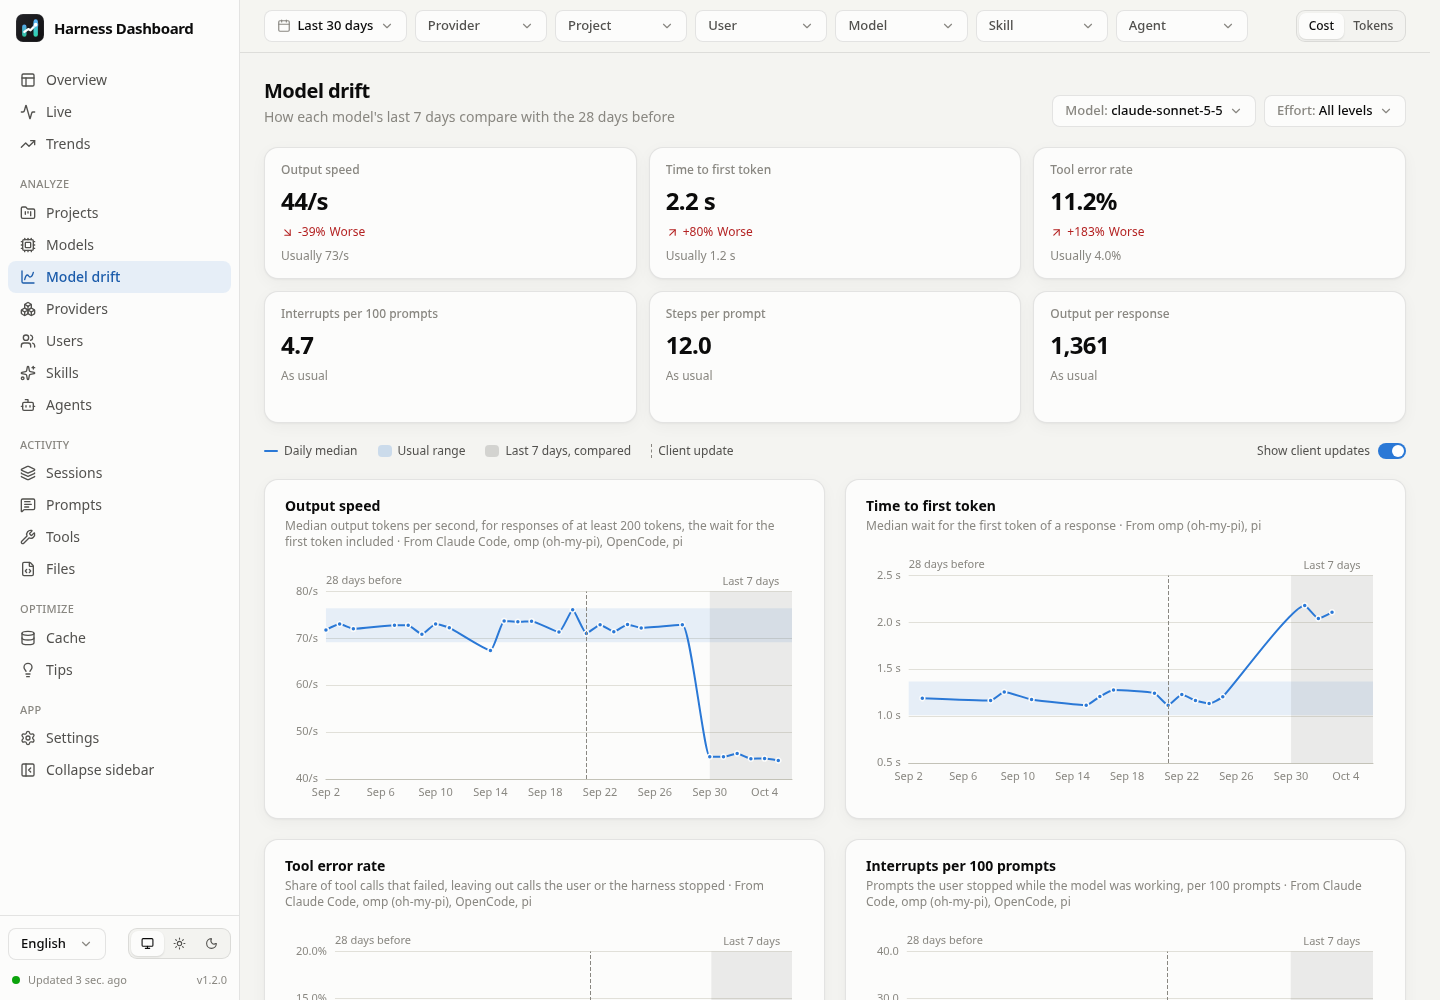
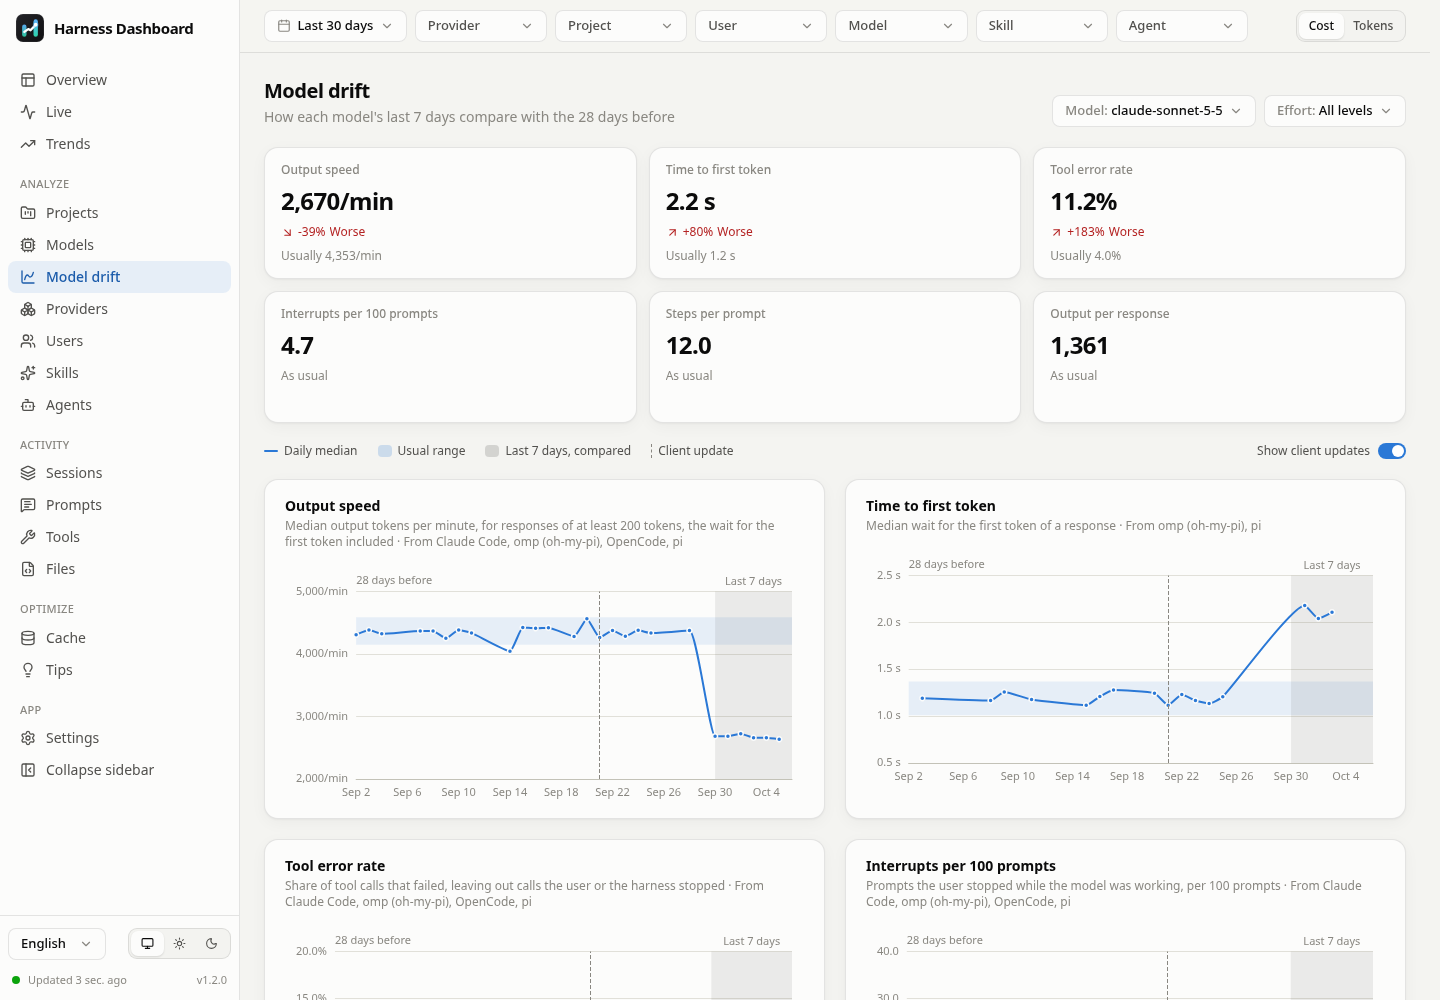
fix: show drift output speed in tokens per minute, as on the Live view

diff --git a/web/src/pages/ModelDrift.svelte b/web/src/pages/ModelDrift.svelte
@@ -10,7 +10,7 @@
   import ViewGate from "../components/ViewGate.svelte";
   import { apiUrl, settled, useFetch, type Drift, type DriftComparison, type DriftMetric } from "../lib/api.svelte.ts";
   import { driftLine } from "../lib/charts.ts";
-  import { compact, decimal, integer, percent } from "../lib/format.ts";
+  import { compact, decimal, percent } from "../lib/format.ts";
   import { t, type MessageKey } from "../lib/i18n.svelte.ts";
   import { store } from "../lib/state.svelte.ts";
 
@@ -18,11 +18,28 @@
   let selected = $state("");
   let effort = $state("");
   const d = useFetch<Drift>(() => apiUrl("/api/drift", { select: selected, effort }));
-  const model = $derived(selected || d.data?.model || "");
+  // Speed is measured per second and shown per minute, as on the Live view. Converted once here, so tiles, table and
+  // chart axes all work in the unit on screen.
+  const PER_MIN: Partial<Record<DriftMetric, number>> = { speed: 60 };
+  function scaled(c: DriftComparison, k: number): DriftComparison {
+    const x = (v: number | null) => (v == null ? null : v * k);
+    return { ...c, recent: x(c.recent), baseline: x(c.baseline), band: c.band && { lo: c.band.lo * k, mid: c.band.mid * k, hi: c.band.hi * k } };
+  }
+  const data = $derived.by((): Drift | null => {
+    const raw = d.data;
+    if (!raw) return null;
+    const k = (m: DriftMetric) => PER_MIN[m] ?? 1;
+    return {
+      ...raw,
+      models: raw.models.map((r) => ({ ...r, metrics: Object.fromEntries(Object.entries(r.metrics).map(([m, c]) => [m, scaled(c, k(m as DriftMetric))])) as typeof r.metrics })),
+      series: raw.series.map((s) => ({ ...s, values: s.values.map((v) => (v == null ? null : v * k(s.key))), comparison: scaled(s.comparison, k(s.key)) })),
+    };
+  });
+  const model = $derived(selected || data?.model || "");
 
   const METRICS: DriftMetric[] = ["speed", "ttft", "toolErrors", "interrupts", "steps", "output"];
   const FORMAT: Record<DriftMetric, (v: number) => string> = {
-    speed: (v) => t("drift.unit.tps", { v: integer(v) }),
+    speed: (v) => `${compact(v)}/min`,
     ttft: (v) => t("drift.unit.s", { v: decimal(v, 1) }),
     toolErrors: (v) => percent(v / 100, 1),
     interrupts: (v) => decimal(v, 1),
@@ -49,21 +66,20 @@
   }
 
   const modelOptions = $derived.by(() => {
-    const names = (d.data?.models ?? []).map((m) => m.model);
+    const names = (data?.models ?? []).map((m) => m.model);
     if (model && !names.includes(model)) names.unshift(model);
     return names.map((m) => ({ value: m, label: m }));
   });
-  const effortOptions = $derived([{ value: "", label: t("drift.allEfforts") }, ...(d.data?.efforts ?? []).map((e) => ({ value: e, label: e }))]);
+  const effortOptions = $derived([{ value: "", label: t("drift.allEfforts") }, ...(data?.efforts ?? []).map((e) => ({ value: e, label: e }))]);
 
   function pick(m: string) {
     selected = m;
     effort = "";
   }
 
-  const series = $derived(new Map((d.data?.series ?? []).map((s) => [s.key, s])));
+  const series = $derived(new Map((data?.series ?? []).map((s) => [s.key, s])));
   const options = $derived.by(() => {
     void store.dark;
-    const data = d.data;
     if (!data) return new Map();
     const recentFrom = dayKey(data.window.recentFrom);
     return new Map(
@@ -104,7 +120,7 @@
   ]);
   const rows = $derived.by(() => {
     const dir = asc ? 1 : -1;
-    return (d.data?.models ?? [])
+    return (data?.models ?? [])
       .map((m): Row => ({ ...m, flagged: METRICS.filter((k) => m.metrics[k].status === "changed").length }))
       .sort((a, b) => (sort === "model" ? dir * a.model.localeCompare(b.model) : dir * (a[sort] - b[sort])));
   });

diff --git a/web/src/lib/locales/es.ts b/web/src/lib/locales/es.ts
@@ -353,7 +353,7 @@ export const es: Record<MessageKey, string> = {
   "drift.allEfforts": "Todos los niveles",
   "drift.empty": "Ningún modelo tiene actividad suficiente en este periodo para compararlo.",
   "drift.metric.speed": "Velocidad de salida",
-  "drift.metric.speedHint": "Mediana de tokens de salida por segundo, en respuestas de al menos 200 tokens, con la espera del primer token incluida",
+  "drift.metric.speedHint": "Mediana de tokens de salida por minuto, en respuestas de al menos 200 tokens, con la espera del primer token incluida",
   "drift.metric.ttft": "Tiempo hasta el primer token",
   "drift.metric.ttftHint": "Mediana de la espera hasta el primer token de una respuesta",
   "drift.metric.toolErrors": "Tasa de errores de herramientas",
@@ -385,7 +385,6 @@ export const es: Record<MessageKey, string> = {
   "drift.allModels": "Todos los modelos",
   "drift.allModelsHint": "Cambio de cada medida frente al nivel habitual del modelo. Elige una fila para ver sus gráficos.",
   "drift.responses": "Respuestas",
-  "drift.unit.tps": "{v}/s",
   "drift.unit.s": "{v} s",
 
   "tips.title": "Consejos",

diff --git a/web/src/lib/locales/fr.ts b/web/src/lib/locales/fr.ts
@@ -353,7 +353,7 @@ export const fr: Record<MessageKey, string> = {
   "drift.allEfforts": "Tous les niveaux",
   "drift.empty": "Aucun modèle n'a assez d'activité sur cette période pour être comparé.",
   "drift.metric.speed": "Vitesse de sortie",
-  "drift.metric.speedHint": "Médiane des tokens de sortie par seconde, pour les réponses d'au moins 200 tokens, attente du premier token comprise",
+  "drift.metric.speedHint": "Médiane des tokens de sortie par minute, pour les réponses d'au moins 200 tokens, attente du premier token comprise",
   "drift.metric.ttft": "Délai du premier token",
   "drift.metric.ttftHint": "Médiane de l'attente du premier token d'une réponse",
   "drift.metric.toolErrors": "Taux d'erreur des outils",
@@ -385,7 +385,6 @@ export const fr: Record<MessageKey, string> = {
   "drift.allModels": "Tous les modèles",
   "drift.allModelsHint": "Évolution de chaque mesure par rapport au niveau habituel du modèle. Choisissez une ligne pour voir ses graphiques.",
   "drift.responses": "Réponses",
-  "drift.unit.tps": "{v}/s",
   "drift.unit.s": "{v} s",
 
   "tips.title": "Conseils",

diff --git a/web/src/lib/locales/pl.ts b/web/src/lib/locales/pl.ts
@@ -353,7 +353,7 @@ export const pl: Record<MessageKey, string> = {
   "drift.allEfforts": "Wszystkie poziomy",
   "drift.empty": "Żaden model nie ma w tym okresie wystarczającej aktywności do porównania.",
   "drift.metric.speed": "Szybkość odpowiedzi",
-  "drift.metric.speedHint": "Mediana tokenów wyjściowych na sekundę dla odpowiedzi od 200 tokenów, z czasem oczekiwania na pierwszy token",
+  "drift.metric.speedHint": "Mediana tokenów wyjściowych na minutę dla odpowiedzi od 200 tokenów, z czasem oczekiwania na pierwszy token",
   "drift.metric.ttft": "Czas do pierwszego tokena",
   "drift.metric.ttftHint": "Mediana czasu oczekiwania na pierwszy token odpowiedzi",
   "drift.metric.toolErrors": "Odsetek błędów narzędzi",
@@ -385,7 +385,6 @@ export const pl: Record<MessageKey, string> = {
   "drift.allModels": "Wszystkie modele",
   "drift.allModelsHint": "Zmiana każdej miary względem zwykłego poziomu modelu. Wybierz wiersz, aby zobaczyć jego wykresy.",
   "drift.responses": "Odpowiedzi",
-  "drift.unit.tps": "{v}/s",
   "drift.unit.s": "{v} s",
 
   "tips.title": "Wskazówki",

diff --git a/web/src/lib/locales/de.ts b/web/src/lib/locales/de.ts
@@ -353,7 +353,7 @@ export const de: Record<MessageKey, string> = {
   "drift.allEfforts": "Alle Stufen",
   "drift.empty": "Kein Modell hat in diesem Zeitraum genug Aktivität für einen Vergleich.",
   "drift.metric.speed": "Ausgabetempo",
-  "drift.metric.speedHint": "Median der Ausgabe-Tokens pro Sekunde bei Antworten ab 200 Tokens, inklusive Wartezeit auf das erste Token",
+  "drift.metric.speedHint": "Median der Ausgabe-Tokens pro Minute bei Antworten ab 200 Tokens, inklusive Wartezeit auf das erste Token",
   "drift.metric.ttft": "Zeit bis zum ersten Token",
   "drift.metric.ttftHint": "Median der Wartezeit auf das erste Token einer Antwort",
   "drift.metric.toolErrors": "Tool-Fehlerquote",
@@ -385,7 +385,6 @@ export const de: Record<MessageKey, string> = {
   "drift.allModels": "Alle Modelle",
   "drift.allModelsHint": "Änderung jedes Messwerts gegenüber dem üblichen Niveau des Modells. Eine Zeile wählen, um die Diagramme zu sehen.",
   "drift.responses": "Antworten",
-  "drift.unit.tps": "{v}/s",
   "drift.unit.s": "{v} s",
 
   "tips.title": "Tipps",

diff --git a/web/src/lib/locales/en.ts b/web/src/lib/locales/en.ts
@@ -351,7 +351,7 @@ export const en = {
   "drift.allEfforts": "All levels",
   "drift.empty": "No model has enough activity in this range to compare.",
   "drift.metric.speed": "Output speed",
-  "drift.metric.speedHint": "Median output tokens per second, for responses of at least 200 tokens, the wait for the first token included",
+  "drift.metric.speedHint": "Median output tokens per minute, for responses of at least 200 tokens, the wait for the first token included",
   "drift.metric.ttft": "Time to first token",
   "drift.metric.ttftHint": "Median wait for the first token of a response",
   "drift.metric.toolErrors": "Tool error rate",
@@ -383,7 +383,6 @@ export const en = {
   "drift.allModels": "All models",
   "drift.allModelsHint": "Change of each measure against the model's usual level. Pick a row to see its charts.",
   "drift.responses": "Responses",
-  "drift.unit.tps": "{v}/s",
   "drift.unit.s": "{v} s",
 
   "tips.title": "Tips",
